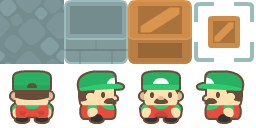
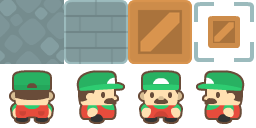
refactor: refactor some code

diff --git a/src/sokoban.hpp b/src/sokoban.hpp
@@ -14,7 +14,7 @@
 class Sokoban
 {
 public:
-	Sokoban() : level_(""), material_("img/default_new.png"), database_("database.db") {}
+	Sokoban() : level_(""), material_("img/default.png"), database_("database.db") {}
 
 	void run(int argc, char* argv[])
 	{

diff --git a/src/level.hpp b/src/level.hpp
@@ -22,8 +22,6 @@
 #include <unordered_set>
 #include <vector>
 
-#include <iostream>
-
 template <class T>
 struct std::hash<sf::Vector2<T>>
 {
